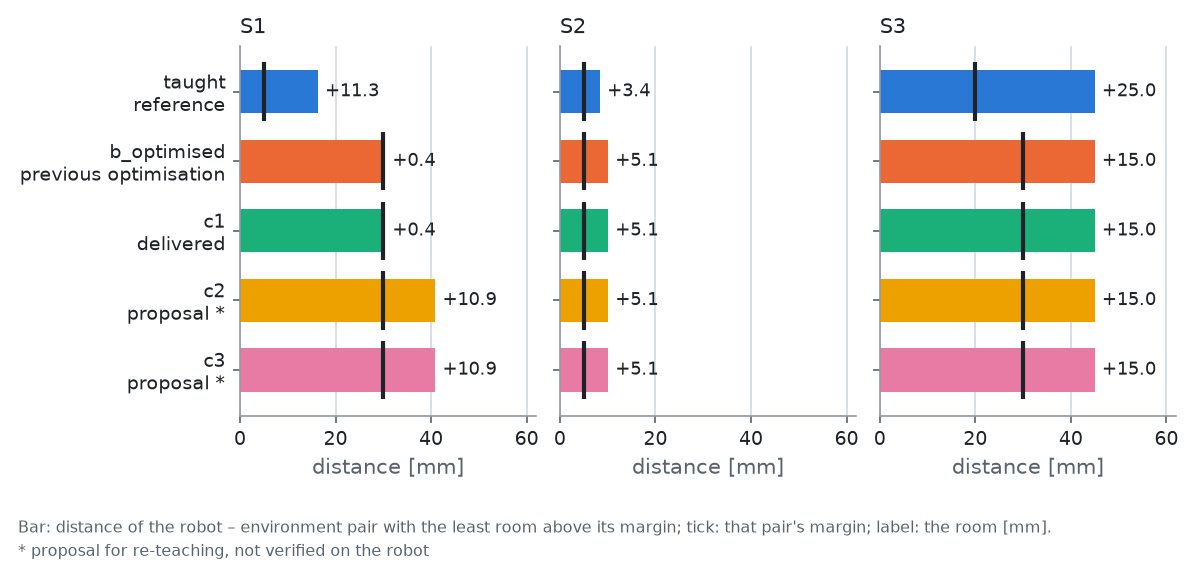
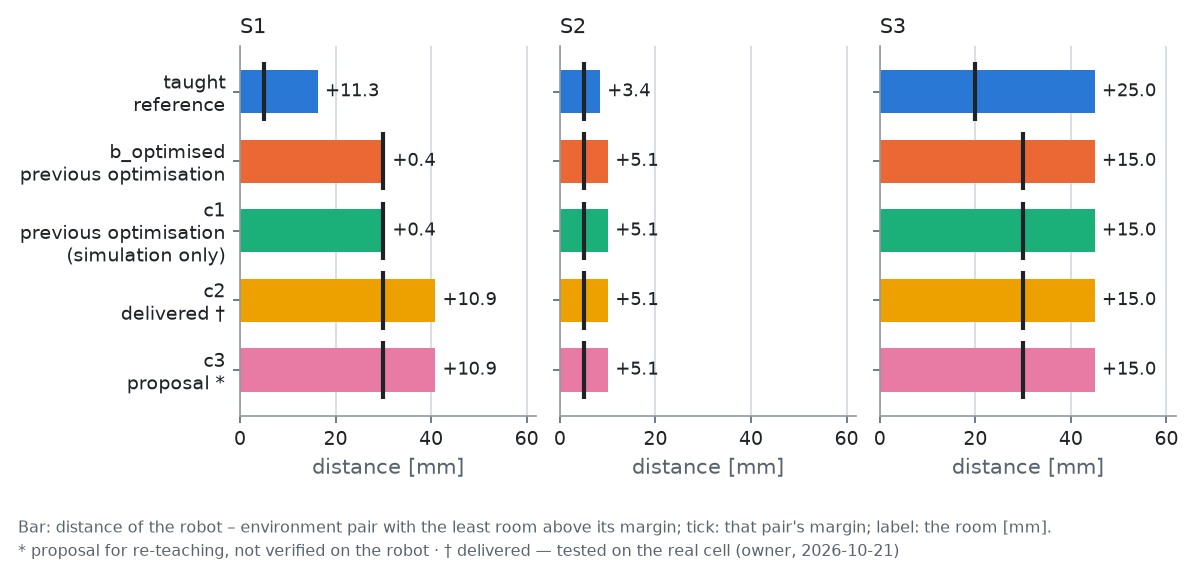
Show c2 as delivered and c1 as the previous optimisation in the figures
The graphs mark the statuses (owner, 2026-10-21): c2 "delivered" with a
dagger, c1 "previous optimisation (simulation only)", c3 "proposal"
with an asterisk; one footnote line spells out both marks. In the joint
graph only the proposal c3 is dashed. The path render legends read
"c2: delivered - tested on the real cell (owner, 2026-10-21)" and
"c1: previous optimisation (simulation only)".

The cycle-time graph is 1 in wider and the max-height graph 0.3 in
taller, so the longer c1 label does not run into its neighbours; the
margins in inches are unchanged. 16 images change (the 6 graphs and the
c1 and c2 renders, both themes), the other 14 are byte-identical; the
byte-pinned graph references are regenerated. Graph data unchanged.

Changed region(s): [[0.0, 0.3579, 0.185, 0.4772], [0.37, 0.9544, 0.74, 0.9842], [0.0925, 0.5368, 0.185, 0.5667]]

diff --git a/Example/make_readme_figures.py b/Example/make_readme_figures.py
@@ -67,12 +67,19 @@ Description:
 # The README's image folder.
 #   Unit [string]
 CONST_MEDIA_DIR = os.path.join(CONST_PROJECT_ROOT, 'Media')
-# The variants in the order of the comparison table, and the short status shown under each name.
-#   Unit [Tuple<string>], [Dict<string, string>]
+# The variants in the order of the comparison table, the short status shown under each name, and
+# the footnote that spells out the marked ones (owner, 2026-10-21: c2 delivered and tested on the
+# real cell, c1 the previous optimisation, c3 a proposal).
+#   Unit [Tuple<string>], [Dict<string, string>], [string]
 CONST_ORDER = tuple(CONST_VARIANTS)
-CONST_SHORT = {'taught': 'reference', 'b_optimised': 'previous optimisation', 'c1': 'delivered',
-               'c2': 'proposal *', 'c3': 'proposal *'}
+CONST_SHORT = {'taught': 'reference', 'b_optimised': 'previous optimisation', 'c1': 'previous optimisation\n(simulation only)',
+               'c2': 'delivered †', 'c3': 'proposal *'}
 CONST_PROPOSAL_NOTE = '* proposal for re-teaching, not verified on the robot'
+CONST_DELIVERED_NOTE = '† delivered — tested on the real cell (owner, 2026-10-21)'
+CONST_STATUS_NOTE = '%s · %s' % (CONST_PROPOSAL_NOTE, CONST_DELIVERED_NOTE)
+# The variant drawn dashed in the joint graph: the proposal.
+#   Unit [Tuple<string>]
+CONST_DASHED = ('c3',)
 # The footnote of the graphs that show times (owner, 2026-10-21): their timing is the duration estimate.
 #   Unit [string]
 CONST_ESTIMATE_NOTE = 'Simulation estimate — blends and gripper time not modelled.'
@@ -134,7 +141,8 @@ CONST_ASSEMBLY_GROUPS = {'machine_a': ('machine (a)', (0.52, 0.64, 0.80)),
 # The status in the title of a path render.
 #   Unit [Dict<string, string>]
 CONST_RENDER_STATUS = {'taught': 'the taught program (reference)', 'b_optimised': 'previous optimisation, superseded by c1',
-                       'c1': 'delivered', 'c2': 'proposal — not verified on the robot',
+                       'c1': 'previous optimisation (simulation only)',
+                       'c2': 'delivered — tested on the real cell (owner, 2026-10-21)',
                        'c3': 'proposal — not verified on the robot'}
 # At most this many capsules per drawn path (the path is thinned evenly).
 #   Unit [int]
@@ -364,7 +372,7 @@ def Graph_Cycle_Time(table: tp.Dict, mode: str) -> tp.Any:
     """
 
     theme = CONST_THEMES[mode]
-    fig, ax = New_Figure((8.0, 4.4), theme)
+    fig, ax = New_Figure((9.0, 4.4), theme)
     x = np.arange(len(CONST_ORDER))
     bottom = np.zeros(len(CONST_ORDER))
     for section, color in zip(CONST_STACK, CONST_STACK_COLORS[mode]):
@@ -387,8 +395,8 @@ def Graph_Cycle_Time(table: tp.Dict, mode: str) -> tp.Any:
     ax.set_ylim(0, taught * 1.22)
     legend = ax.legend(loc='upper right', ncol=2, fontsize=8.5, frameon=False, labelcolor=theme['text'])
     legend.set_title(None)
-    fig.subplots_adjust(left=0.08, right=0.98, top=0.97, bottom=0.227)
-    Footnote(fig, theme, [CONST_PROPOSAL_NOTE, CONST_ESTIMATE_NOTE])
+    fig.subplots_adjust(left=0.071, right=0.982, top=0.97, bottom=0.227)
+    Footnote(fig, theme, [CONST_STATUS_NOTE, CONST_ESTIMATE_NOTE])
     return fig
 
 
@@ -421,7 +429,7 @@ def Graph_Path_Length(table: tp.Dict, mode: str) -> tp.Any:
         ax.set_xlabel(label)
         ax.set_yticks(y, Variant_Labels() if ax is axes[0] else [''] * len(y))
     fig.subplots_adjust(left=0.2, right=0.97, top=0.96, bottom=0.22, wspace=0.12)
-    Footnote(fig, theme, [CONST_PROPOSAL_NOTE])
+    Footnote(fig, theme, [CONST_STATUS_NOTE])
     return fig
 
 
@@ -441,7 +449,7 @@ def Graph_Max_Height(table: tp.Dict, mode: str, cfg: Cell_Configuration_Str) -> 
     """
 
     theme = CONST_THEMES[mode]
-    fig, ax = New_Figure((8.0, 3.3), theme)
+    fig, ax = New_Figure((8.0, 3.6), theme)
     y = np.arange(len(CONST_ORDER))[::-1]
     values = [Value(table, v, 'total', 'max_robot_z_m') for v in CONST_ORDER]
     ax.barh(y, values, 0.62, color=[CONST_VARIANT_COLORS[mode][v] for v in CONST_ORDER])
@@ -457,8 +465,8 @@ def Graph_Max_Height(table: tp.Dict, mode: str, cfg: Cell_Configuration_Str) -> 
     ax.set_xlim(0, column + 0.4)
     ax.set_ylim(-0.6, len(y) + 0.1)
     ax.set_xlabel('world z [m]')
-    fig.subplots_adjust(left=0.2, right=0.97, top=0.93, bottom=0.22)
-    Footnote(fig, theme, [CONST_PROPOSAL_NOTE])
+    fig.subplots_adjust(left=0.2, right=0.97, top=0.936, bottom=0.2)
+    Footnote(fig, theme, [CONST_STATUS_NOTE])
     return fig
 
 
@@ -493,7 +501,7 @@ def Graph_Clearance(table: tp.Dict, mode: str, cfg: Cell_Configuration_Str) -> t
     axes[0].set_yticks(y, Variant_Labels())
     fig.subplots_adjust(left=0.2, right=0.98, top=0.92, bottom=0.27, wspace=0.08)
     Footnote(fig, theme, ['Bar: distance of the robot – environment pair with the least room above its margin; tick: that pair\'s '
-                          'margin; label: the room [mm].', CONST_PROPOSAL_NOTE])
+                          'margin; label: the room [mm].', CONST_STATUS_NOTE])
     return fig
 
 
@@ -501,7 +509,7 @@ def Graph_Joints(data: tp.Dict[str, Variant_Data_Str], mode: str) -> tp.Any:
     """
     Description:
         The six joint angles of all five variants over the estimated time, one panel per joint on a
-        shared time axis, the proposals dashed. A timeline strip above them shows each variant's
+        shared time axis, the proposal (CONST_DASHED) dashed. A timeline strip above them shows each variant's
         sections (the taught station operations shaded) and where its sequence ends; a dotted line
         in the variant's colour carries that end through the joint panels.
 
@@ -534,7 +542,7 @@ def Graph_Joints(data: tp.Dict[str, Variant_Data_Str], mode: str) -> tp.Any:
     Style_Axes(timeline, theme, 'x')
     for j, ax in enumerate(joints):
         for v in CONST_ORDER:
-            proposal = v in ('c2', 'c3')
+            proposal = v in CONST_DASHED
             ax.plot(data[v].Time, np.degrees(data[v].Joints[:, j]), color=colors[v], linewidth=1.5,
                     linestyle=(0, (4, 2)) if proposal else '-',
                     label='%s%s (%.2f s)' % (v, ', proposal' if proposal else '', data[v].Time[-1]))
@@ -546,7 +554,7 @@ def Graph_Joints(data: tp.Dict[str, Variant_Data_Str], mode: str) -> tp.Any:
     fig.legend(*joints[0].get_legend_handles_labels(), loc='upper left', bbox_to_anchor=(0.09, 0.995), ncol=3, fontsize=8.5,
                frameon=False, labelcolor=theme['text'])
     fig.subplots_adjust(left=0.13, right=0.98, top=0.922, bottom=0.084, hspace=0.14)
-    Footnote(fig, theme, [CONST_PROPOSAL_NOTE + ' (dashed).', CONST_ESTIMATE_NOTE])
+    Footnote(fig, theme, ['%s (dashed) · %s.' % (CONST_PROPOSAL_NOTE, CONST_DELIVERED_NOTE), CONST_ESTIMATE_NOTE])
     return fig
 
 
@@ -598,7 +606,7 @@ def Graph_TCP_Paths(data: tp.Dict[str, Variant_Data_Str], mode: str, cfg: Cell_C
     fig.legend(*axes[0, 0].get_legend_handles_labels(), loc='upper right', bbox_to_anchor=(0.99, 0.995), fontsize=8.5, frameon=False,
                labelcolor=theme['text'], handlelength=1.5)
     fig.subplots_adjust(left=0.08, right=0.99, top=0.87, bottom=0.12, wspace=0.08, hspace=0.12)
-    Footnote(fig, theme, [CONST_PROPOSAL_NOTE + '.'])
+    Footnote(fig, theme, [CONST_STATUS_NOTE + '.'])
     return fig
 
 
